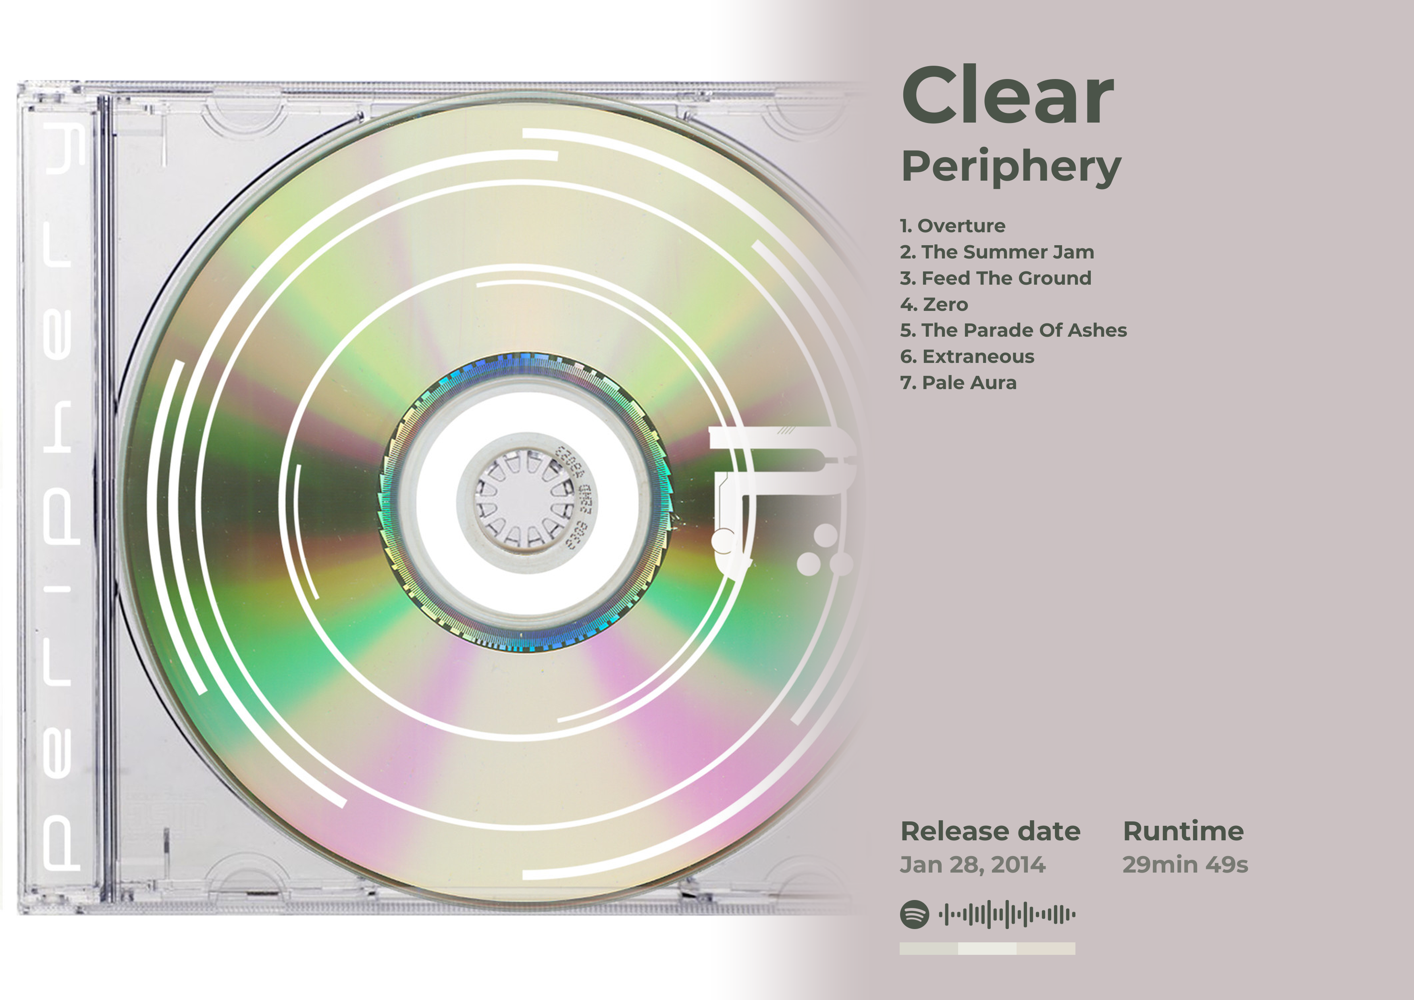
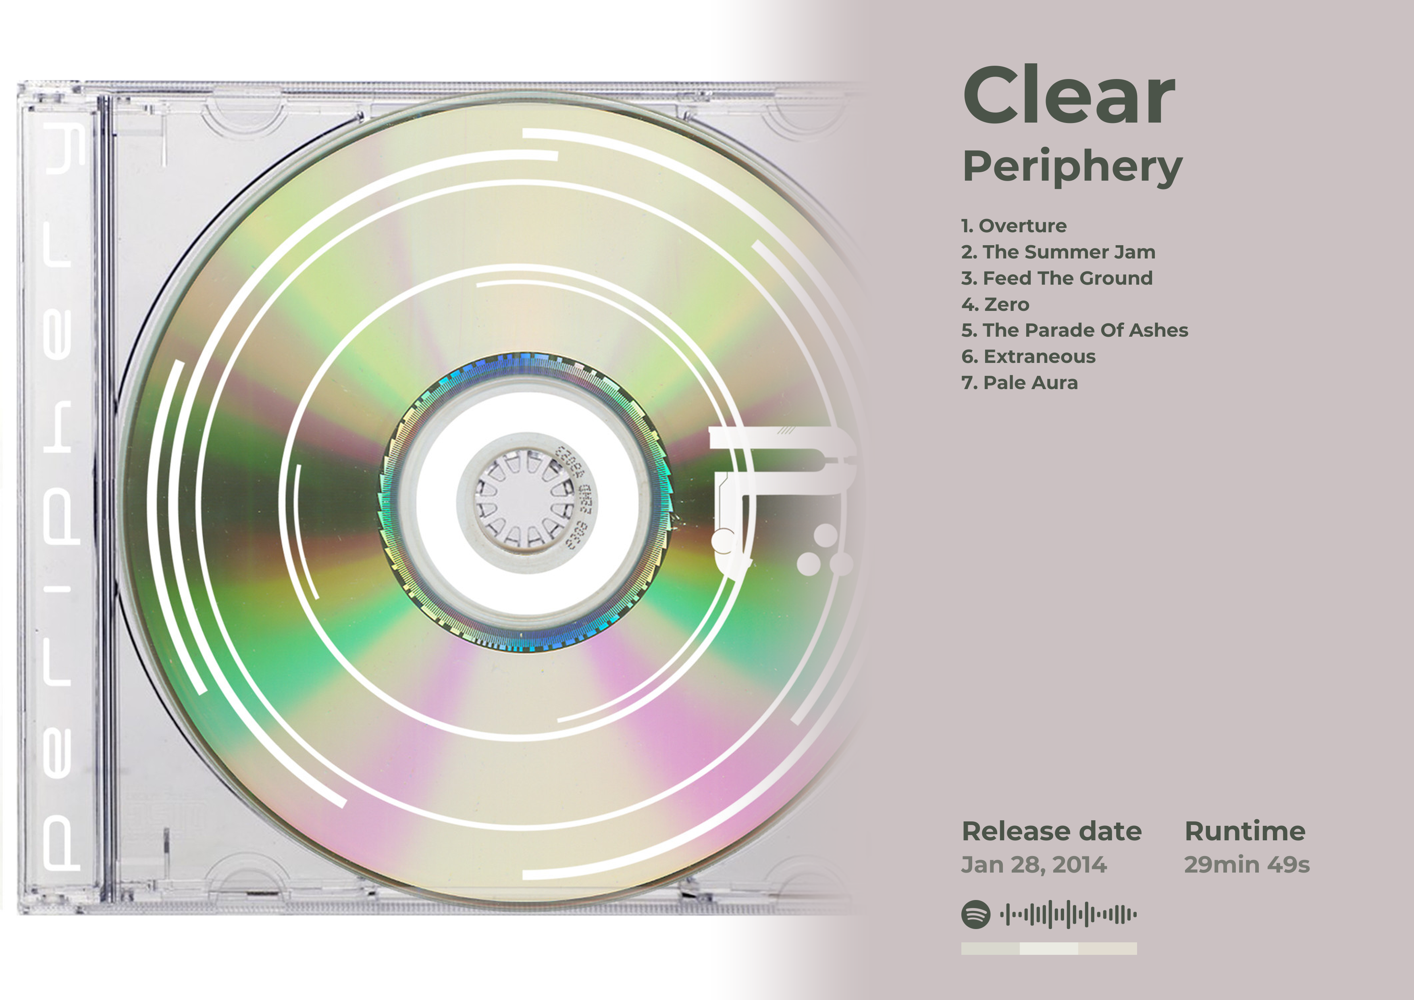
Move landscape text right, add --artist-image option

diff --git a/framefy.py b/framefy.py
@@ -14,7 +14,7 @@ import urllib.parse
 import urllib.request
 from pathlib import Path
 
-from PIL import Image, ImageDraw, ImageFont
+from PIL import Image, ImageDraw, ImageFont, ImageOps
 
 API = "https://api.spotify.com/v1"
 ALBUM_RE = re.compile(r"(?:open\.spotify\.com/(?:intl-\w+/)?album/|spotify:album:)([A-Za-z0-9]{22})")
@@ -110,6 +110,7 @@ def load_album(album_id, tok):
         "id": a["id"],
         "title": a["name"],
         "artist": ", ".join(x["name"] for x in a["artists"]),
+        "artist_id": a["artists"][0]["id"],
         "date": fmt_date(a["release_date"]),
         "runtime": fmt_runtime(sum(t["duration_ms"] for t in tracks)),
         "tracks": [t["name"] for t in tracks],
@@ -215,7 +216,7 @@ def draw_tracks(d, tracks, x, y, max_w, bottom, u, fill):
         x += w + 30 * u
 
 
-def render(album, cover, code=None, size="A4", orientation="portrait"):
+def render(album, cover, code=None, size="A4", orientation="portrait", artist_img=None):
     """Layout numbers are in units of short side / 1414, measured off the reference posters."""
     short, long = SIZES[size]
     land = orientation == "landscape"
@@ -236,7 +237,7 @@ def render(album, cover, code=None, size="A4", orientation="portrait"):
         mask = mask.transpose(Image.Transpose.TRANSPOSE)
     img.paste(cover.convert("RGB").resize((short, short), Image.Resampling.LANCZOS), (0, 0), mask)
 
-    x0 = (1273 if land else 92) * u
+    x0 = (1360 if land else 92) * u
     max_w = W - 92 * u - x0
     foot = (1188 if land else 1886) * u  # baseline of the "Release date" label
 
@@ -244,8 +245,16 @@ def render(album, cover, code=None, size="A4", orientation="portrait"):
     last = (92 + 0.72 * s + (len(lines) - 1) * 1.1 * s if land else 1425) * u
     for i, line in enumerate(lines):
         d.text((x0, last - (len(lines) - 1 - i) * 1.1 * s * u), line, fg, f, anchor="ls")
-    f, _, lines = fit(d, album["artist"], 700, 61, max_w, 1, u)
-    d.text((x0, last + 82 * u), " ".join(lines), fg, f, anchor="ls")
+    ax = x0
+    if artist_img:  # round profile picture in front of the artist name
+        dia = round(64 * u)
+        disc = Image.new("L", (dia * 4, dia * 4))
+        ImageDraw.Draw(disc).ellipse((0, 0, dia * 4 - 1, dia * 4 - 1), fill=255)
+        img.paste(ImageOps.fit(artist_img.convert("RGB"), (dia, dia)),
+                  (round(x0), round(last + 61 * u - dia / 2)), disc.resize((dia, dia)))
+        ax += dia + 18 * u
+    f, _, lines = fit(d, album["artist"], 700, 61, max_w - (ax - x0), 1, u)
+    d.text((ax, last + 82 * u), " ".join(lines), fg, f, anchor="ls")
     draw_tracks(d, album["tracks"], x0, last + 155 * u, max_w, foot - 76 * u, u, fg)
 
     x = x0
@@ -279,13 +288,22 @@ def main():
     p.add_argument("--size", type=str.upper, choices=list(SIZES), default="A4")
     p.add_argument("--orientation", type=str.lower, choices=["portrait", "landscape"], default="portrait")
     p.add_argument("--format", type=str.lower, choices=["png", "pdf"], default="png")
+    p.add_argument("--artist-image", action="store_true", help="show the artist's profile picture next to their name")
     p.add_argument("-o", "--output", help="output file (default: '<artist> - <album>.<format>')")
     args = p.parse_args()
     try:
         tok = token()
         m = ALBUM_RE.search(args.album)
         album = load_album(m.group(1) if m else pick(args.album, tok), tok)
-        img = render(album, load_cover(album["cover_url"]), load_code(album["id"]), args.size, args.orientation)
+        artist_img = None
+        if args.artist_image:
+            images = api(f"/artists/{album['artist_id']}", tok)["images"]
+            if images:
+                artist_img = load_cover(images[0]["url"])
+            else:
+                print("warning: the artist has no profile picture", file=sys.stderr)
+        img = render(album, load_cover(album["cover_url"]), load_code(album["id"]),
+                     args.size, args.orientation, artist_img)
     except urllib.error.HTTPError as e:
         sys.exit(f"Spotify error {e.code}: {e.read().decode(errors='replace')[:300]}")
     name = re.sub(r'[\\/:*?"<>|]', "_", f"{album['artist']} - {album['title']}")

diff --git a/test_framefy.py b/test_framefy.py
@@ -37,7 +37,8 @@ album = {"title": "A Fairly Long Album Title: With A Subtitle", "artist": "Some 
 for size, (short, long) in framefy.SIZES.items():
     for orientation in ("portrait", "landscape"):
         for cover, tracks in zip(covers, ([f"Track number {i}" for i in range(40)], [])):
-            img = framefy.render({**album, "tracks": tracks}, cover, code if tracks else None, size, orientation)
+            img = framefy.render({**album, "tracks": tracks}, cover, code if tracks else None, size, orientation,
+                                 covers[0] if tracks else None)
             assert img.size == ((long, short) if orientation == "landscape" else (short, long))
 
 buf = io.BytesIO()

diff --git a/README.md b/README.md
@@ -1,4 +1,4 @@
-# framefy
+# Framefy
 
 Makes a printable poster from a Spotify album.
 
@@ -23,4 +23,5 @@ Search text lists matching albums to browse and pick from; an album link skips t
 | `--size` | `A4`, `A3` | `A4` |
 | `--orientation` | `portrait`, `landscape` | `portrait` |
 | `--format` | `png`, `pdf` | `png` |
+| `--artist-image` | flag: adds the artist's profile picture next to their name | off |
 | `-o` | output file | `<artist> - <album>.<format>` |
